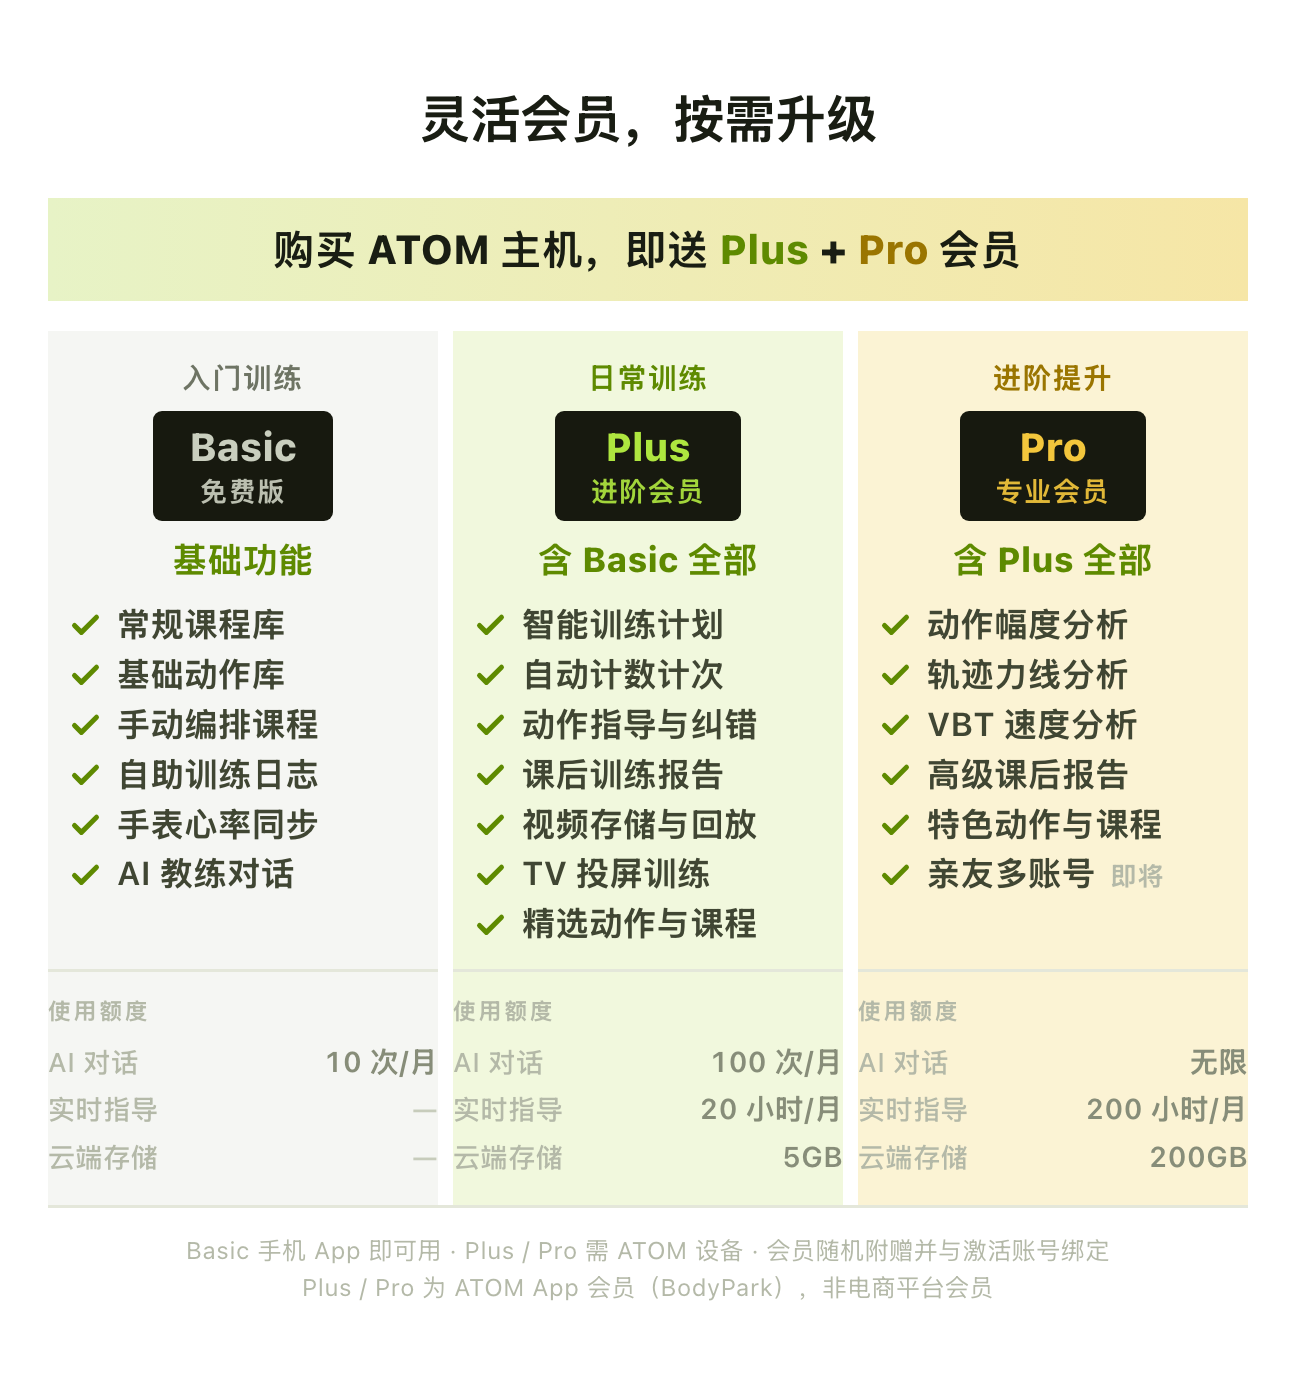
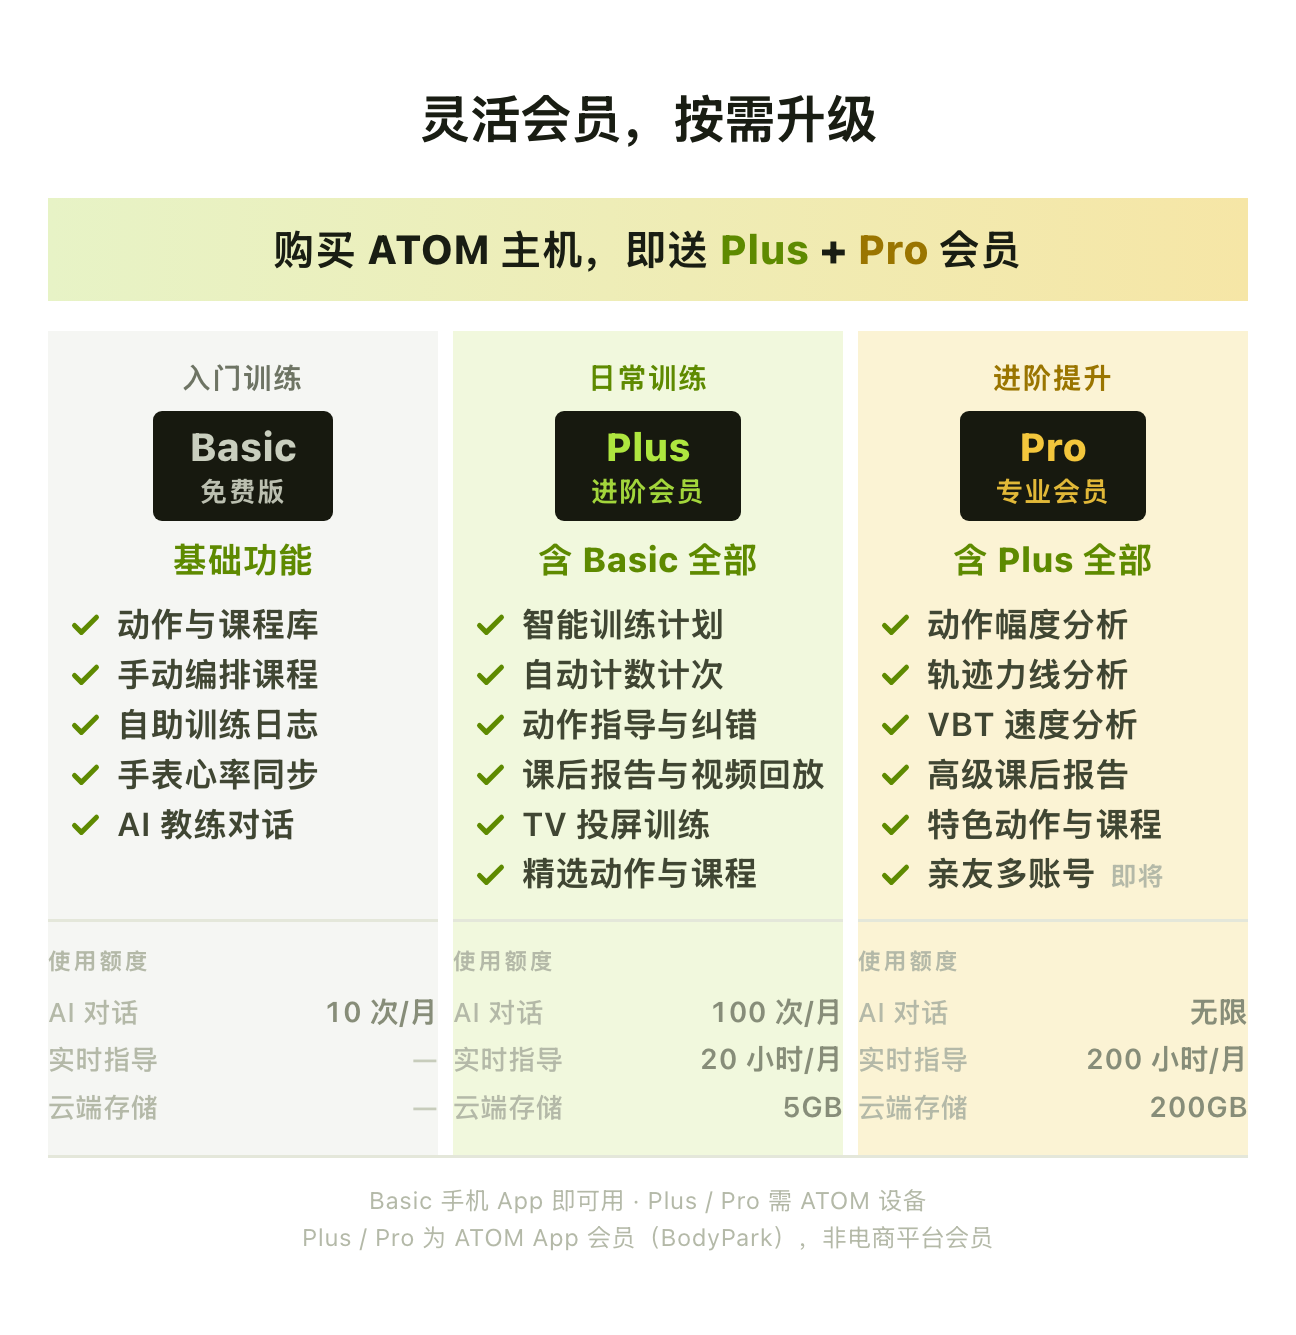
simplify(membership-simple): 脚注压两行 + 功能条目合并
- 脚注删除"账号绑定"程序性细节，压缩到精确 2 行（Range API 验证，非目测）
- Basic：常规课程库+基础动作库 → 动作与课程库
- Plus：课后训练报告+视频存储与回放 → 课后报告与视频回放
- 保留未合并：自动计数计次/动作指导与纠错（此前明确要求拆分）、
  Pro 的三项分析类型（进阶用户关心的具体差异，合并会丢失信息）
- 长图未改动：其脚注承担符号图例功能、功能列表定位是"看清每一项"

Changed region(s): [[0.0309, 0.0614, 0.9568, 0.6757], [0.0309, 0.6757, 0.9568, 0.9521]]

diff --git a/charts/membership-simple.html b/charts/membership-simple.html
@@ -92,17 +92,17 @@
       quotaKeys: ['AI 对话', '实时指导', '云端存储'], soon: '即将',
       cols: [
         { cls: 'c1', role: '入门训练', en: 'Basic', cn: '免费版', inh: '基础功能',
-          feats: ['常规课程库', '基础动作库', '手动编排课程', '自助训练日志', '手表心率同步', 'AI 教练对话'],
+          feats: ['动作与课程库', '手动编排课程', '自助训练日志', '手表心率同步', 'AI 教练对话'],
           quota: ['10 次/月', null, null] },
         { cls: 'c2', role: '日常训练', en: 'Plus', cn: '进阶会员', inh: '含 Basic 全部',
-          feats: ['智能训练计划', '自动计数计次', '动作指导与纠错', '课后训练报告', '视频存储与回放', 'TV 投屏训练', '精选动作与课程'],
+          feats: ['智能训练计划', '自动计数计次', '动作指导与纠错', '课后报告与视频回放', 'TV 投屏训练', '精选动作与课程'],
           quota: ['100 次/月', '20 小时/月', '5GB'] },
         { cls: 'c3', role: '进阶提升', en: 'Pro', cn: '专业会员', inh: '含 Plus 全部',
           feats: ['动作幅度分析', '轨迹力线分析', 'VBT 速度分析', '高级课后报告', '特色动作与课程',
                   { t: '亲友多账号', soon: true }],
           quota: ['无限', '200 小时/月', '200GB'] }
       ],
-      foot: 'Basic 手机 App 即可用 · Plus / Pro 需 ATOM 设备 · 会员随机附赠并与激活账号绑定<br>Plus / Pro 为 ATOM App 会员（BodyPark），非电商平台会员'
+      foot: 'Basic 手机 App 即可用 · Plus / Pro 需 ATOM 设备<br>Plus / Pro 为 ATOM App 会员（BodyPark），非电商平台会员'
     },
     en: {
       title: 'Flexible Membership, Your Way',
@@ -110,17 +110,17 @@
       quotaKeys: ['AI chats', 'Live', 'Storage'], soon: 'Soon',
       cols: [
         { cls: 'c1', role: 'Beginner', en: 'Basic', cn: 'Free', inh: 'Base features',
-          feats: ['Course library', 'Exercise library', 'Manual plan builder', 'Self-log training', 'Watch HR sync', 'AI coach chat'],
+          feats: ['Exercise & course library', 'Manual plan builder', 'Self-log training', 'Watch HR sync', 'AI coach chat'],
           quota: ['10/mo', null, null] },
         { cls: 'c2', role: 'Everyday', en: 'Plus', cn: 'Member', inh: 'All of Basic',
-          feats: ['Adaptive plans', 'Auto rep-counting', 'Form guidance & fix', 'Workout reports', 'Recording & replay', 'TV casting', 'Curated classes'],
+          feats: ['Adaptive plans', 'Auto rep-counting', 'Form guidance & fix', 'Reports & video replay', 'TV casting', 'Curated classes'],
           quota: ['100/mo', '20 hrs/mo', '5GB'] },
         { cls: 'c3', role: 'Advanced', en: 'Pro', cn: 'Member', inh: 'All of Plus',
           feats: ['Range analysis', 'Bar-path & trajectory', 'VBT analysis', 'Advanced reports', 'Signature classes',
                   { t: 'Family accounts', soon: true }],
           quota: ['Unlimited', '200 hrs/mo', '200GB'] }
       ],
-      foot: 'Basic runs on the phone app · Plus / Pro need an ATOM device · membership bound to activating account<br>Plus / Pro are ATOM App memberships (BodyPark), not a store membership'
+      foot: 'Basic runs on the phone app · Plus / Pro need an ATOM device<br>Plus / Pro are ATOM App memberships (BodyPark), not a store membership'
     }
   };
 

diff --git a/docs/decisions.md b/docs/decisions.md
@@ -162,3 +162,13 @@
 - **删除设备要求行**（每列下方「手机 App 即可用」/「需 ATOM 设备」）——这条信息已经在底部脚注完整覆盖，卡片内重复一遍反而增加视觉噪音；仅精简版有此结构性变更（长图本来就没有这行，只在脚注体现）。
 - **使用额度区视觉降级**：去掉三色底框、去掉加粗分色数值，改成顶部一条细分割线 + 统一浅灰小字——从"强调的信息块"降级为"次要参考信息"，避免和上方功能列表（真正决策要看的内容）抢视觉权重。
 - 副作用：中文精简版高度 480→430px，宽高比 1.20→1.07，更接近正方形（未刻意追求，是精简内容后的自然结果）。
+
+## 12. 简洁版脚注压缩 + 功能条目合并（2026-07）
+
+- **脚注压到 2 行**：删除「会员随机附赠并与激活账号绑定 / membership bound to activating account」这类程序性细节，只留「设备要求」+「会员归属说明」两条核心信息。用 Range.getClientRects() 精确统计行数验证（中英文均为 2 行），非目测估计。此细节长图脚注仍完整保留（长图脚注还兼任 ✓/预览/即将 符号图例，功能不同，不能同样精简）。
+- **功能条目合并**（仅简洁版，长图保持全部细分——长图定位就是"看清楚每一项"）：
+  - Basic：「常规课程库」+「基础动作库」→「动作与课程库」（6 项→5 项）
+  - Plus：「课后训练报告」+「视频存储与回放」→「课后报告与视频回放」（7 项→6 项）
+- **未合并、且不建议合并的**：
+  - Plus 的「自动计数计次」/「动作指导与纠错」——用户此前明确要求拆分，不再合并。
+  - Pro 的「动作幅度分析」/「轨迹力线分析」/「VBT 速度分析」——三项是进阶用户关心的具体分析能力，合并会抹掉对这个受众有意义的信息区分，故保留独立。